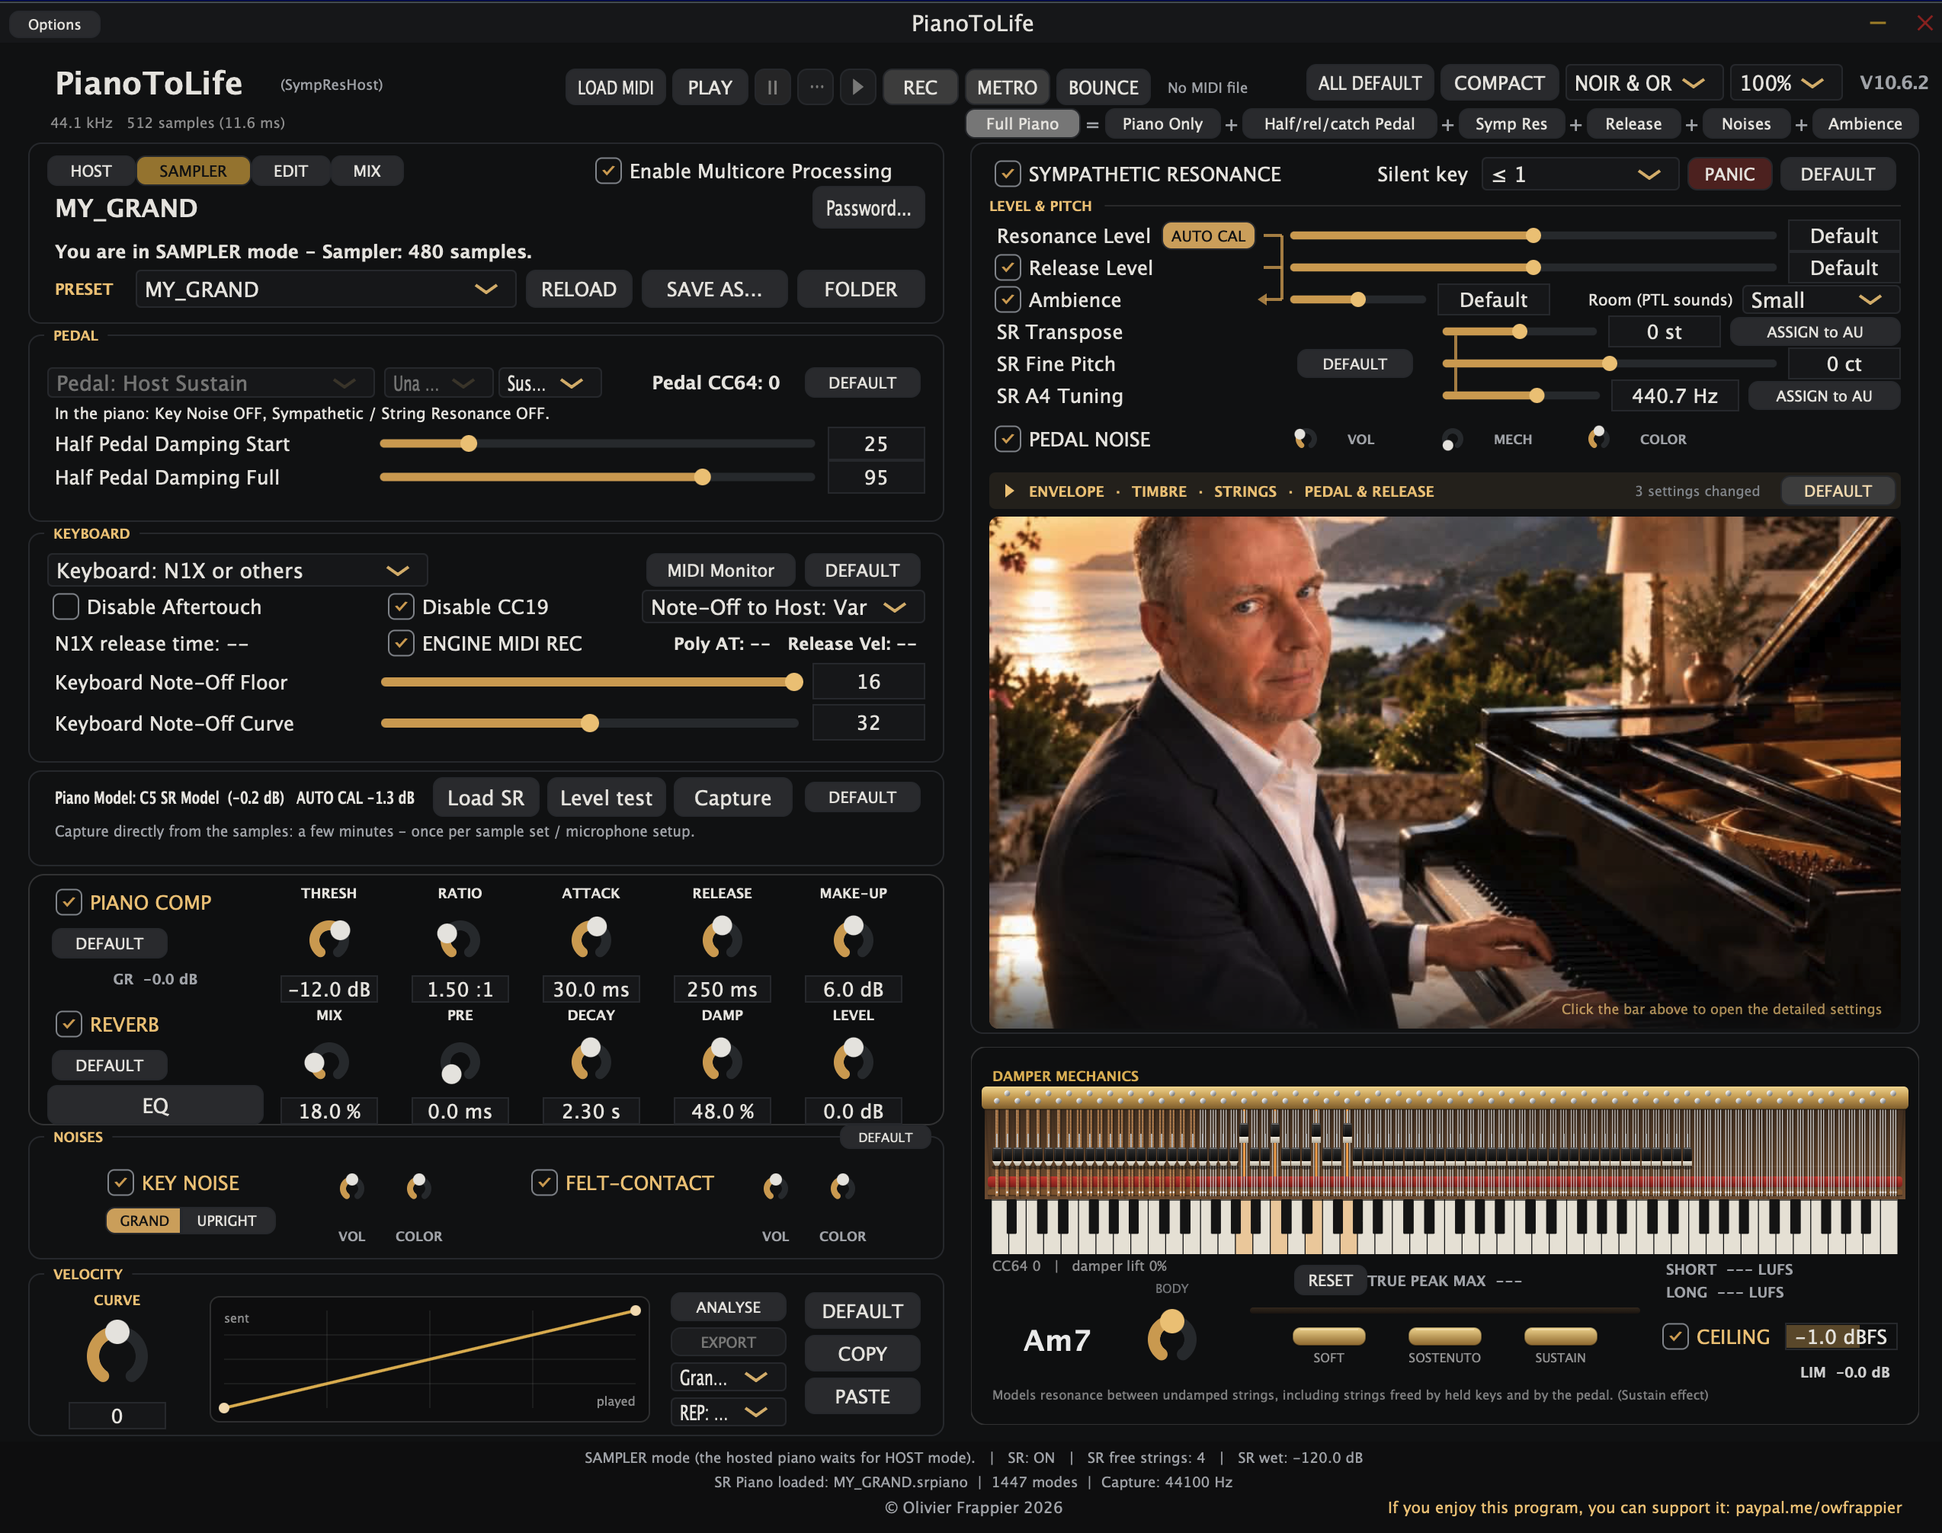
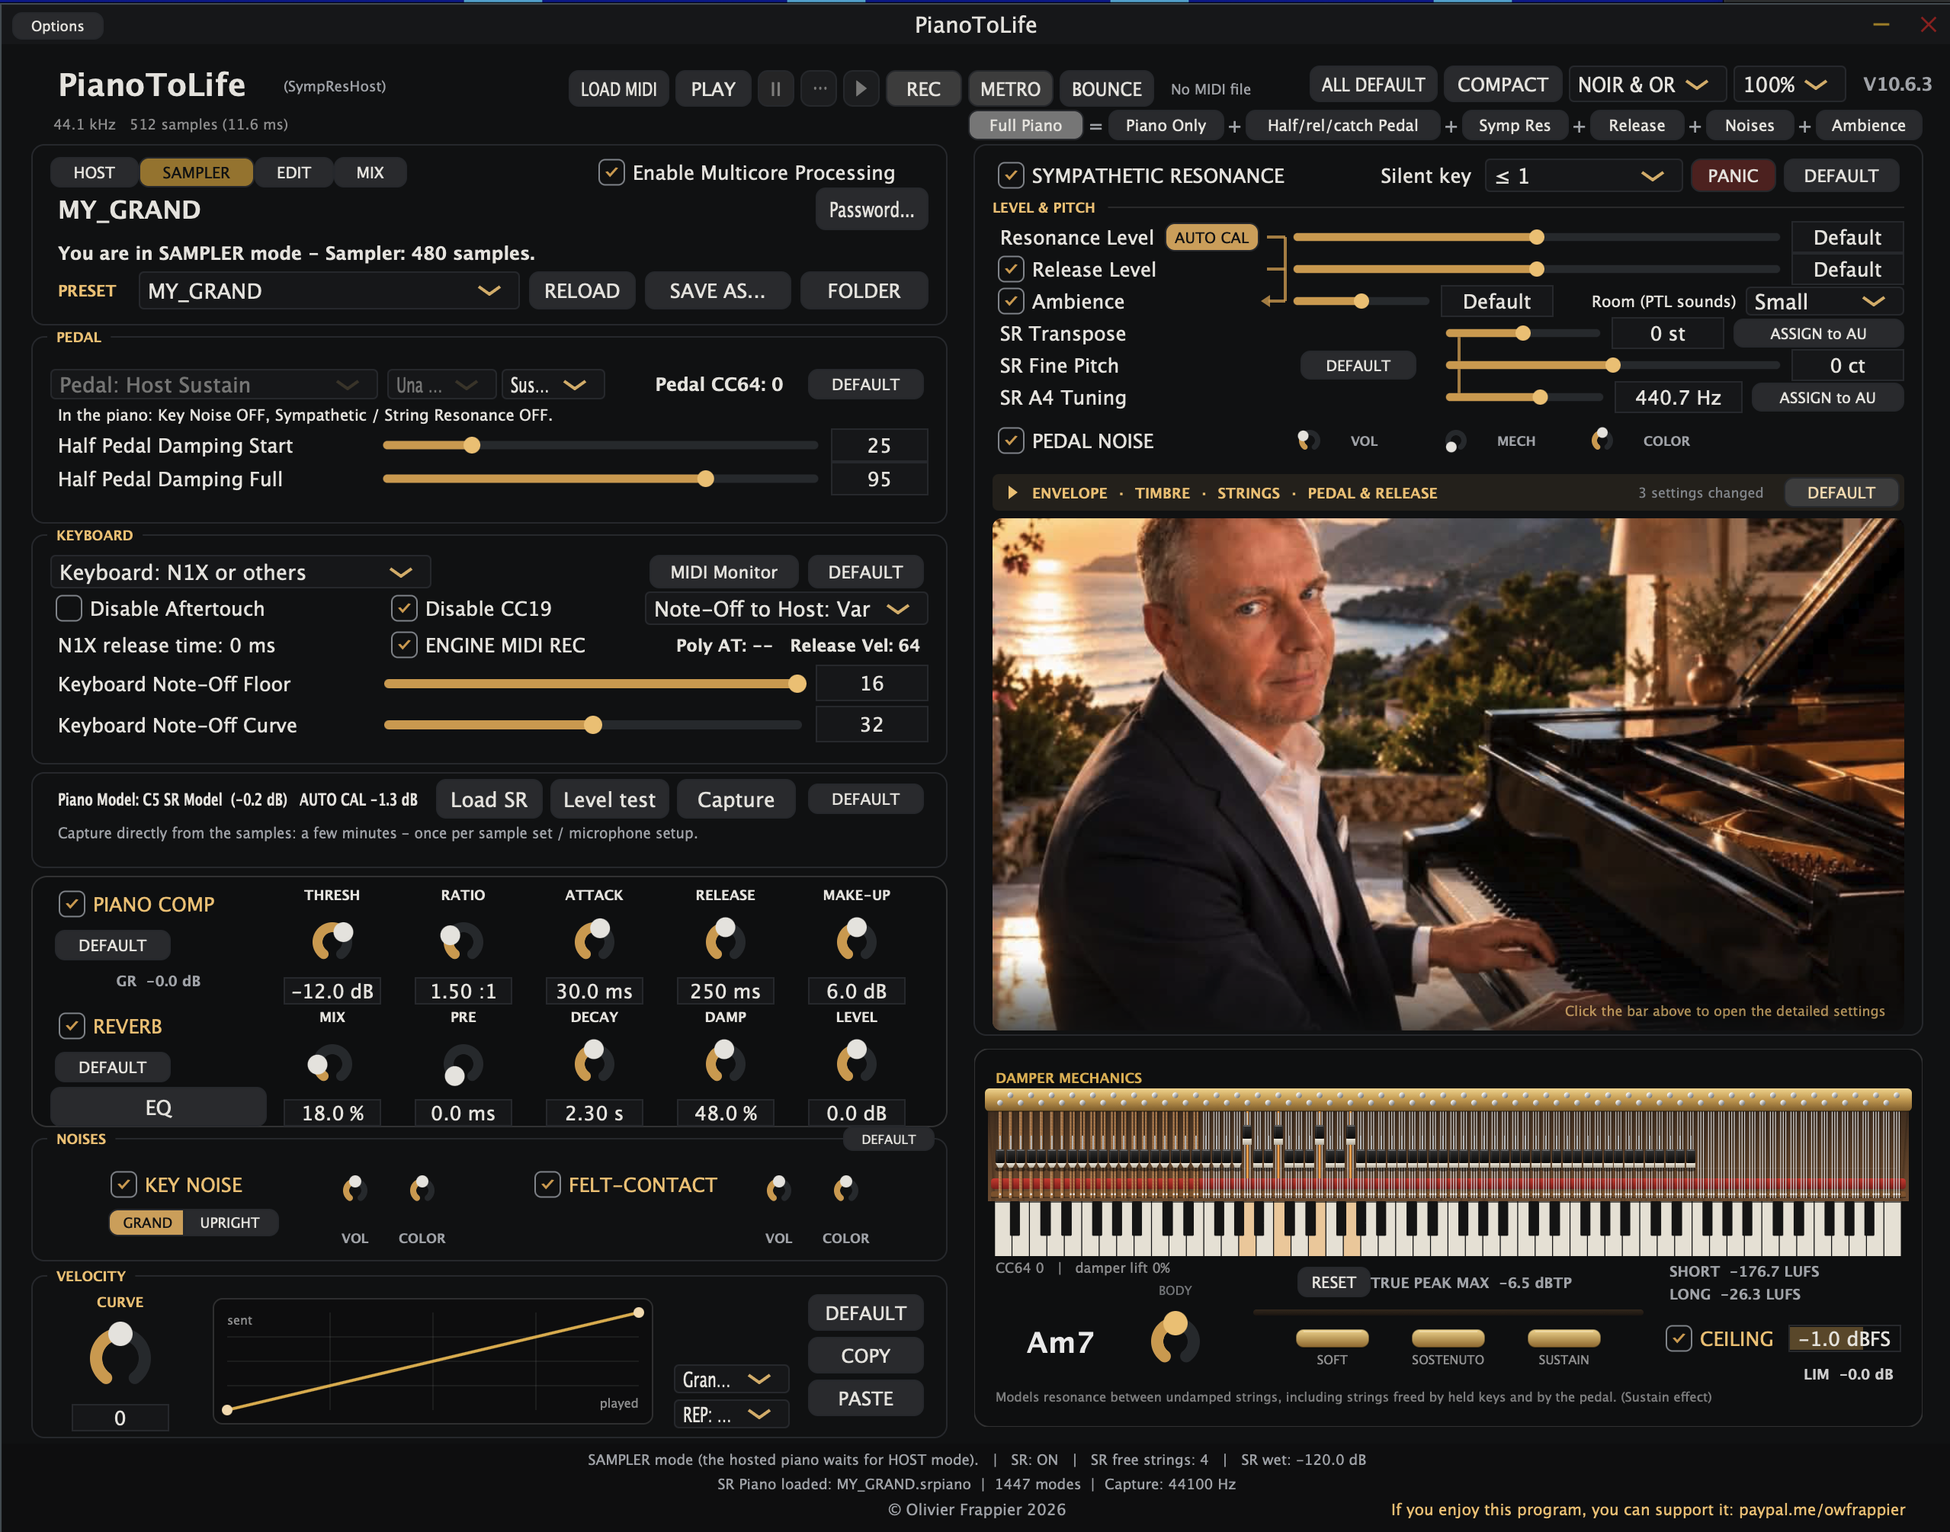
Add files via upload

diff --git a/MANUEL_SAMPLER.md b/MANUEL_SAMPLER.md
@@ -161,6 +161,9 @@ des micros.
 | **AUTO NAME** | Les nuances, vélocités ou numéros de couche des noms de fichier fixent l'ordre des couches (plus sûr quand deux couches se ressemblent) | Activé |
 | **SOFT TIMBRE** + COLOR | Une note jouée sous la vélocité de sa couche prend le timbre plus sombre d'une frappe plus douce (la couleur 2–4 kHz et 4–8 kHz du piano de référence, mesurée sur chaque touche et chaque vélocité), pas seulement un niveau plus bas : des pp sous la couche la plus douce et des frontières lisses. COLOR (−100 à +100 %) dose l'effet | Activé, 0 % |
 | **HARD TIMBRE** + COLOR | Une note jouée au-dessus de la vélocité de sa couche devient plus brillante, comme une frappe plus dure sur le piano de référence (mesuré sur chaque touche, jusqu'à +18 dB) : avec peu de couches, les vélocités intermédiaires sonnent comme de vraies frappes. Pour une couche du haut qui n'est pas vraiment fff, ou un set avec peu de couches | Désactivé, 0 % |
+| **MEDIUM TIMBRE** + COLOR (10.6.3) | La couleur des vélocités du milieu (environ v48–84, mp à mf), entre SOFT et HARD, comme le voicing du piano de référence (mesuré). Plus haut = plus brillant, plus bas = plus sombre ; 0 % = tel que mesuré. Le niveau ne change pas | Activé, 0 % |
+| **HAMMER** (10.6.3) | La dureté des marteaux, pour tout le piano et toutes les vélocités, comme la dureté des marteaux du piano de référence (mesurée). Plus bas : un piano que vous trouvez trop brillant devient plus doux, comme si un technicien avait piqué ses marteaux — autour de −20 %, un caractère plus romantique, des forte plus chauds ; vers −100 %, un son très feutré, proche d'une una corda. Plus haut : des marteaux durcis, les nuances douces deviennent plus brillantes. Le timbre seulement, le niveau ne change pas. Réglé à la main (AUTO COLOR n'y touche pas) | 0 % |
+| **XCOLOR** (10.6.3) — Real layers transition enhancer | À chaque frontière entre deux couches, les deux jouent sur ce nombre de vélocités, celle du dessous s'effaçant pendant que celle du dessus arrive : on passe d'une vraie frappe à l'autre progressivement. Jamais plus de deux couches à la fois : la largeur est limitée par les couches de part et d'autre, donc un piano à beaucoup de couches (50 ou plus) n'en reçoit presque rien, ce qui est normal. Surtout utile jusqu'à une dizaine de couches ; adoucit aussi une couche un peu différente de ses voisines (sans la remplacer). **16 est un bon point de départ**, puis lancez **ALIGN ATTACKS** : avec XCOLOR actif, il met aussi chaque couche en phase avec celle du dessous, pour qu'elles se mélangent sans son creux « en peigne » | Désactivé |
 | **FADE IN** | Chaque échantillon commence par un fondu de 1 ms : un début coupé dans le son ne claque jamais | Désactivé |
 | **FLAC** | Au prochain SAVE SAMPLES, les échantillons sont stockés compressés sans aucune perte (identiques au bit près, souvent 3 à 6 fois plus petits). Désactivé = WAV tels quels | Désactivé |
 
@@ -176,7 +179,13 @@ des micros.
 
 0 % ne veut donc pas dire « éteint » mais « tel que mesuré sur le piano de référence ». Pour couper un effet, décochez
 sa case ou mettez son COLOR à −100 %. Avec SOFT TIMBRE activé, on n'entend plus les sauts entre les couches de
-vélocité.
+vélocité. **MEDIUM TIMBRE** (10.6.3) fonctionne de la même façon pour les vélocités du milieu (environ v48–84). Depuis
+la 10.6.3, SOFT, MEDIUM et HARD TIMBRE, HAMMER et XCOLOR ont leur propre rangée dans SAMPLER EDIT (la troisième).
+
+**LISTEN** (10.6.3, panneau de droite, à gauche d'UNDO) : joue la touche affichée de la vélocité 1 à 127, une vélocité
+sur 1, 2, 4 ou 8 (menu à côté), telle que vous l'entendrez — ses couches, leurs frontières et les couleurs. Recliquez
+pour arrêter. Rien n'est mesuré ni modifié. Idéal pour écouter les passages entre couches après AUTO DYN, AUTO COLOR
+ou XCOLOR.
 
 ---
 
@@ -215,10 +224,12 @@ partie vide de la grille pour vider la sélection avant de travailler sur toutes
 4. **FIX STEPS** — déplace les frontières orange et rouges vers la vélocité où les deux timbres se rejoignent,
    lissée sur les touches voisines. À lancer **après** AUTO DYN1 / DYN2 (ils replacent les frontières selon
    l'intensité).
-5. **AUTO COLOR** (10.5.1) — règle SOFT COLOR et HARD COLOR pour que la brillance des couches suive la couleur du piano
-   de référence, du piano au forte (mesurée sur A2, A3, A4, A5 à 13 vélocités, 2–4 et 4–8 kHz, comme sur la référence ;
-   seule la forme compte, un piano peut rester plus clair ou plus sombre dans l'ensemble). SOFT / HARD TIMBRE activés.
-   À relancer après un AUTO DYN. UNDO remet les curseurs.
+5. **AUTO COLOR** (10.5.1) — règle SOFT, MEDIUM (10.6.3) et HARD COLOR pour que la brillance des couches suive la
+   couleur du piano de référence, du piano au forte (mesurée sur A2, A3, A4, A5 à 13 vélocités, 2–4 et 4–8 kHz, comme
+   sur la référence ; seule la forme compte, un piano peut rester plus clair ou plus sombre dans l'ensemble). Depuis la
+   10.6.3, il demande d'abord quelles zones régler : **SOFT, MEDIUM et HARD, toutes cochées par défaut** (elles
+   marchent mieux ensemble) ; décochez une zone pour la laisser telle quelle — elle est alors éteinte, et sa case TIMBRE
+   de la rangée suit. HAMMER n'est jamais touché. À relancer après un AUTO DYN. UNDO remet les curseurs.
 6. **BALANCE** — égalise le volume d'une touche à l'autre, mesuré à la vélocité 127 (les couches de chaque touche
    suivent).
    - **Smooth** : la courbe propre du set, sans les sauts (l'équilibre grave-aigu de l'enregistrement est gardé).
@@ -365,6 +376,8 @@ emplacement) ou de **FORGET** ce piano (il n'est alors plus demandé).
 | Un échantillon est sur la mauvaise touche ou octave | Vérifiez les zones orange dans le panneau latéral ; mettez la note dans le nom de fichier (`C4`, `060`) ; AUTO KEY activé |
 | Deux couches sont dans le mauvais ordre | AUTO NAME avec les nuances dans les noms ; sinon déplacez-les à la main |
 | Des marches en jouant crescendo (frontières orange / rouges) | AUTO DYN, puis FIX STEPS ; SOFT TIMBRE activé ; HARD TIMBRE pour une couche du haut trop sombre |
+| Peu de couches : on entend encore le changement de sample à une frontière | XCOLOR (16), puis ALIGN ATTACKS ; vérifier avec LISTEN (10.6.3) |
+| Le piano est trop brillant pour vous | HAMMER un peu sous 0 (−20 % est un bon départ) |
 | Certaines touches plus fortes que leurs voisines | BALANCE ▸ Smooth (ou un piano de référence) |
 | Un clic au début de certaines notes | ALIGN ATTACKS ; FADE IN pour les débuts coupés dans le son |
 | Des notes en retard ou qui flottent entre les couches | ALIGN ATTACKS |

diff --git a/SAMPLER_MANUAL.md b/SAMPLER_MANUAL.md
@@ -152,6 +152,9 @@ delay, no L↔R, BODY at 0 — whatever the MIX. Back to the main window, the MI
 | **AUTO NAME** | The dynamics, velocities or layer numbers in the file names set the order of the layers (safer when two layers sound alike) | On |
 | **SOFT TIMBRE** + COLOR | A note played below its layer's own velocity gets the darker timbre of a softer strike (the 2–4 kHz and 4–8 kHz colour of the reference piano, measured on every key and velocity), not only a lower level: pp under the softest layer and smooth boundaries. COLOR (−100 to +100 %) sets how much | On, 0 % |
 | **HARD TIMBRE** + COLOR | A note played above its layer's velocity gets brighter, like a harder strike on the reference piano (measured on every key, up to +18 dB): with few layers, the velocities in between sound like real strikes. For a top layer that is not really fff, or a set with few layers | Off, 0 % |
+| **MEDIUM TIMBRE** + COLOR (10.6.3) | The colour of the middle velocities (about v48–84, mp to mf), between SOFT and HARD, as the reference piano's voicing (measured). Higher = brighter, lower = darker; 0 % = as measured. The level does not change | On, 0 % |
+| **HAMMER** (10.6.3) | The hardness of the hammers, for the whole piano and every velocity, as the reference piano's hammer hardness (measured). Lower: a piano you find too bright becomes softer, as if a technician had voiced (needled) its hammers — around −20 % a more romantic character, warmer forte; towards −100 % a very felted sound, close to an una corda. Higher: harder hammers, the soft notes get brighter. Timbre only, the level does not change. Set by hand (AUTO COLOR leaves it alone) | 0 % |
+| **XCOLOR** (10.6.3) — Real layers transition enhancer | At each boundary between two layers, both play over this many velocities, the lower one fading out as the upper one fades in: you go from one real strike to the next gradually. Never more than two layers at once: the width is limited by the layers on each side, so a piano with many layers (50 or more) gets almost nothing of it, which is normal. Most useful up to about ten layers; it also softens a layer that sounds a little different from its neighbours (without replacing it). **16 is a good start**, then run **ALIGN ATTACKS**: with XCOLOR on it also puts each layer in phase with the one below, so they blend without a hollow, "comb" sound | Off |
 | **FADE IN** | Every sample starts with a 1 ms fade: a start cut inside the sound never clicks | Off |
 | **FLAC** | At the next SAVE SAMPLES, the samples are stored compressed without any loss (identical to the bit, often 3 to 6 times smaller). Off = WAV as they are | Off |
 
@@ -167,6 +170,13 @@ delay, no L↔R, BODY at 0 — whatever the MIX. Back to the main window, the MI
 
 So 0 % does not mean "off": it means "as measured on the reference piano". To switch an effect off, untick its box
 or set its COLOR to −100 %. With SOFT TIMBRE on, the steps between velocity layers can no longer be heard.
+**MEDIUM TIMBRE** (10.6.3) works the same way for the middle velocities (about v48–84). Since 10.6.3 SOFT, MEDIUM and
+HARD TIMBRE, HAMMER and XCOLOR have their own row in SAMPLER EDIT (the third one).
+
+**LISTEN** (10.6.3, right panel, left of UNDO): plays the key shown from velocity 1 to 127, one velocity out of 1, 2,
+4 or 8 (menu beside it), as you will hear it — its layers, their boundaries and the colours. Click again to stop.
+Nothing is measured or changed. The ideal way to hear the transitions between layers after AUTO DYN, AUTO COLOR or
+XCOLOR.
 
 ---
 
@@ -201,10 +211,12 @@ a selection before working on every key.
    (Dynamics is not changed; a very soft layer's noise comes up with its gain).
 4. **FIX STEPS** — moves the orange / red boundaries to the velocity where the two timbres meet, smoothed over the
    neighbouring keys. Run it **after** AUTO DYN1 / DYN2 (they place the boundaries by loudness again).
-5. **AUTO COLOR** (10.5.1) — sets SOFT COLOR and HARD COLOR so that the brightness of the layers follows the colour of
-   the reference piano from soft to loud (measured on A2, A3, A4, A5 at 13 velocities, 2–4 and 4–8 kHz, as on the
-   reference; only the shape counts, a piano may stay brighter or darker overall). SOFT / HARD TIMBRE on. Run it again
-   after AUTO DYN. UNDO puts the sliders back.
+5. **AUTO COLOR** (10.5.1) — sets SOFT, MEDIUM (10.6.3) and HARD COLOR so that the brightness of the layers follows
+   the colour of the reference piano from soft to loud (measured on A2, A3, A4, A5 at 13 velocities, 2–4 and 4–8 kHz,
+   as on the reference; only the shape counts, a piano may stay brighter or darker overall). Since 10.6.3 it first asks
+   which zones to set: **SOFT, MEDIUM and HARD, all ticked by default** (they work best together); untick a zone to
+   leave it as it is — it is then switched off, and its TIMBRE box in the row follows. HAMMER is never touched. Run it
+   again after AUTO DYN. UNDO puts the sliders back.
 6. **BALANCE** — evens out the volume from one key to the next, measured at velocity 127 (each key's layers follow).
    - **Smooth**: the set's own curve without the jumps (the register balance of the recording is kept).
    - **Grand D / Grand B / Upright**: the bass-to-treble balance of a reference piano, at your set's level.
@@ -346,6 +358,8 @@ that piano (it is then no longer asked about).
 | A sample is on the wrong key or octave | Check the orange zones in the side panel; put the note in the file name (`C4`, `060`); AUTO KEY on |
 | Two layers are in the wrong order | AUTO NAME with dynamics in the names; otherwise move them by hand |
 | Steps when playing crescendo (orange / red boundaries) | AUTO DYN, then FIX STEPS; SOFT TIMBRE on; HARD TIMBRE for a dark top layer |
+| Few layers: you still hear that it is another sample at a boundary | XCOLOR (16), then ALIGN ATTACKS; check with LISTEN (10.6.3) |
+| The piano is too bright for you | HAMMER a little below 0 (−20 % is a good start) |
 | Some keys louder than their neighbours | BALANCE ▸ Smooth (or a reference piano) |
 | A click at the start of some notes | ALIGN ATTACKS; FADE IN for starts cut inside the sound |
 | Notes sound late or flam between layers | ALIGN ATTACKS |

diff --git a/MANUEL.md b/MANUEL.md
@@ -166,6 +166,8 @@ de concert est fourni.
 
 **Détecteur de couches** : joue une note aux 127 vélocités et liste les vraies couches de vélocité du piano (export
 en texte).
+Mode HOST seulement (10.6.3) : en mode SAMPLER, les couches sont connues et déjà placées sur la référence par AUTO DYN,
+donc ANALYSE et EXPORT sont masqués.
 
 ---
 
@@ -339,7 +341,8 @@ signaler un clavier qui se comporte à sa façon.
   si coché) et le tempo et la mesure sont écrits dans le fichier MIDI : la prise tombe sur la grille d'un DAW.
 - **Vue compacte** : réduit l'interface à une petite barre pendant que vous jouez. Depuis la 10.4.2, elle garde aussi ce
   qui sert en jouant : le lecteur MIDI et METRO (application autonome), l'accord joué, un clavier éclairé et cliquable,
-  TRUE PEAK et LUFS, et depuis la 10.6.2 la liste des presets (les instruments en mode SAMPLER).
+  TRUE PEAK et LUFS, et depuis la 10.6.2 la liste des presets (les instruments en mode SAMPLER). Depuis la 10.6.3, la
+  barre compacte s'affiche toujours à 100 % ; la taille choisie (90 / 80 %) vaut pour la fenêtre complète.
 - **Vue de la mécanique des étouffoirs** : les étouffoirs et les cordes en direct (touches tenues en orange), sans
   coût CPU. Depuis la 10.4.0 :
   - **un clavier de 88 touches** sous les cordes s'allume avec elles ; sa couleur suit la vélocité (pâle = doux,

diff --git a/USER_MANUAL.md b/USER_MANUAL.md
@@ -158,6 +158,8 @@ Every model is matched to the same resonance level when it is loaded; each keeps
 concert grand is included.
 
 **Layer detector**: plays a note at the 127 velocities and lists the piano's real velocity layers (export as text).
+HOST mode only (10.6.3): in SAMPLER mode the layers are known and already placed on the reference by AUTO DYN, so
+ANALYSE and EXPORT are hidden.
 
 ---
 
@@ -322,7 +324,8 @@ goes to the **Host**. Differences are highlighted;
   the tempo and time signature are written in the saved MIDI file, so the take sits on the grid of a DAW.
 - **Compact view**: fold the interface into a small bar while you play. Since 10.4.2 it also has what serves while
   playing: the MIDI player and METRO (standalone), the chord you play, a lit and clickable keyboard, TRUE PEAK and LUFS,
-  and since 10.6.2 the preset list (the instruments in SAMPLER mode).
+  and since 10.6.2 the preset list (the instruments in SAMPLER mode). Since 10.6.3 the compact bar is always shown at
+  100 %; the view size you choose (90 / 80 %) is for the full window.
 - **Damper mechanics view**: a live view of the dampers and strings (held keys in orange), at no CPU cost. Since
   10.4.0:
   - **an 88-key keyboard** under the strings lights up with them; its colour follows the velocity (pale = soft, full
